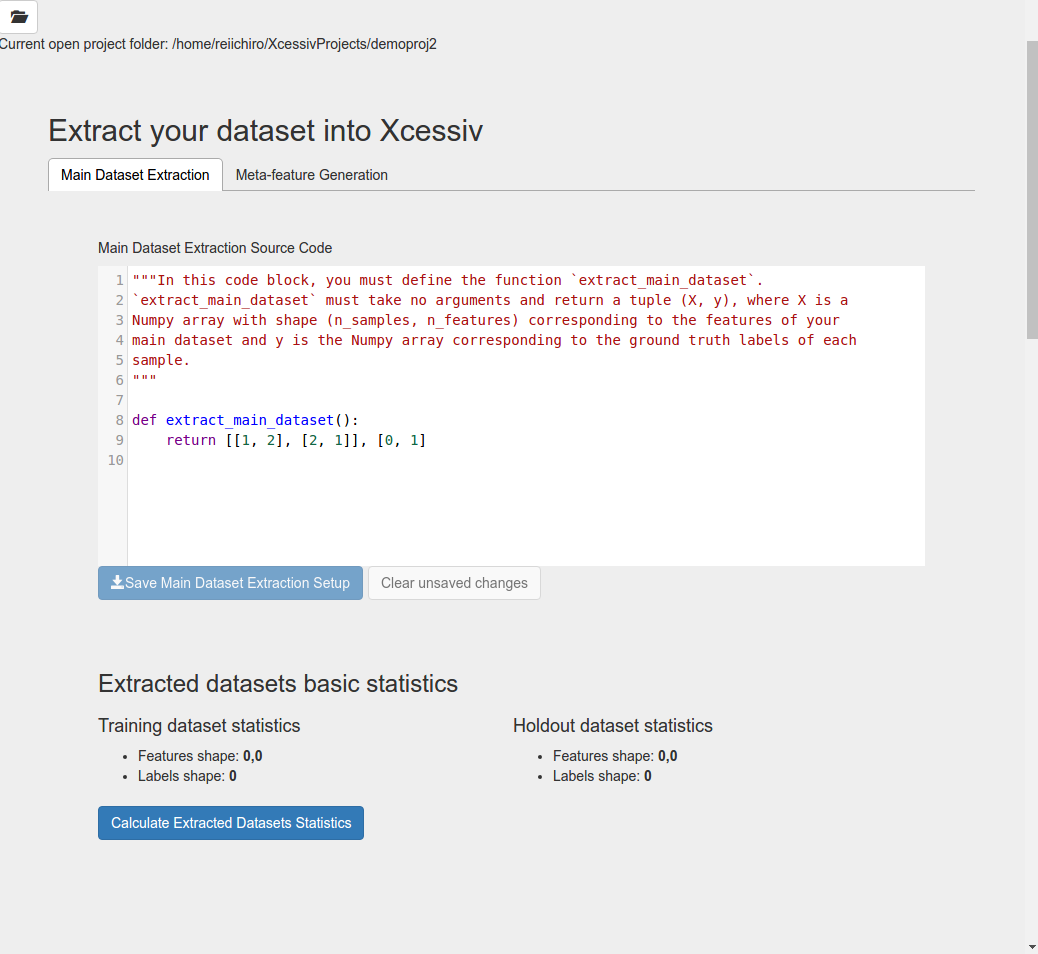
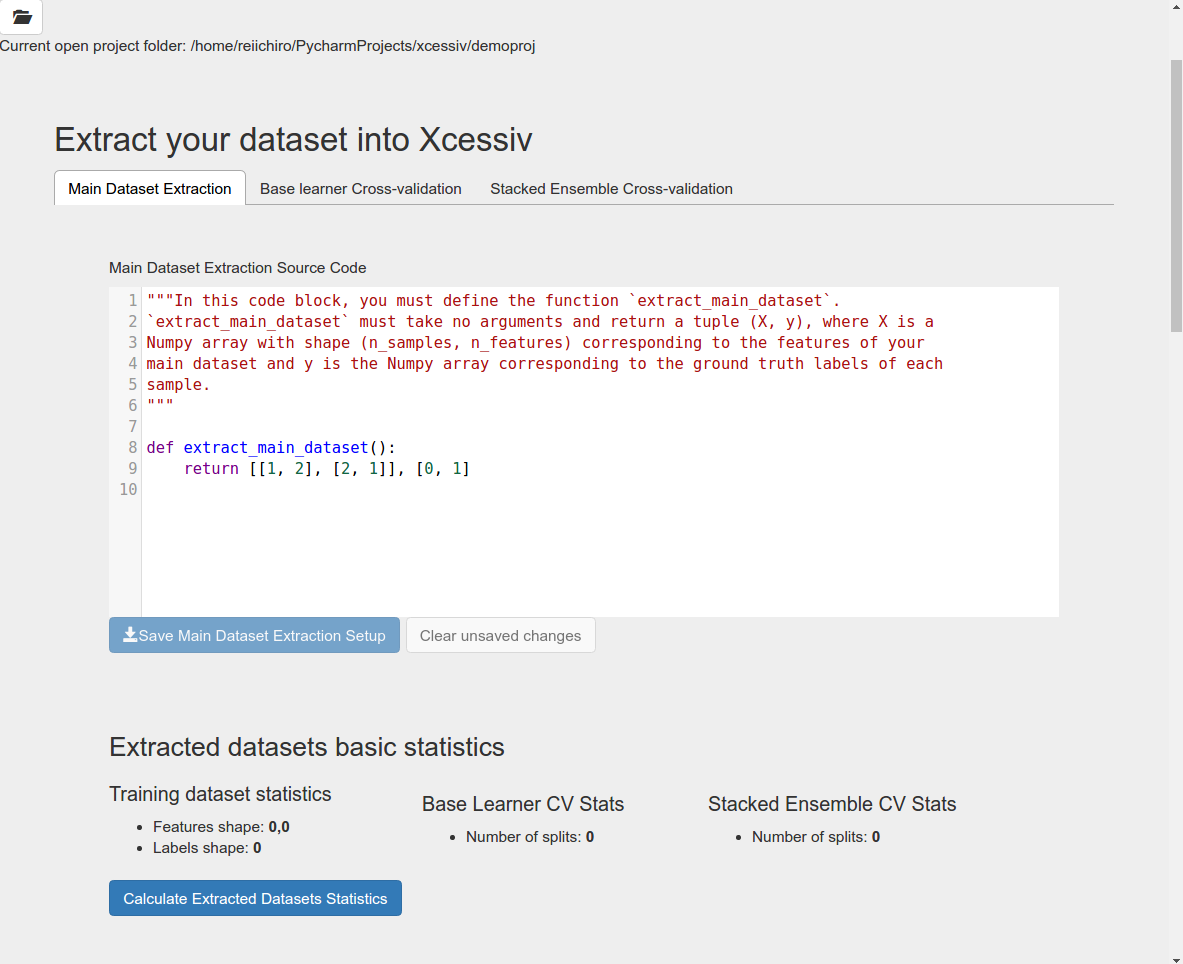
Stacked ensemble cv (#13)
* change server to add ability to specify stacked ensemble cross-validation method

* add UI for modifying stacked ensemble cross-validation and displaying stacked ensemble CV stats

* add docs for stacked ensemble CV

diff --git a/xcessiv/ui/src/DatasetExtraction/DataExtractionTabs.js b/xcessiv/ui/src/DatasetExtraction/DataExtractionTabs.js
@@ -4,6 +4,7 @@ import { Tab, Tabs, TabList, TabPanel } from 'react-tabs';
 import MainDataExtraction from './MainDataExtraction';
 //import TestDataExtraction from './TestDataExtraction';
 import MetaFeatureExtraction from './MetaFeatureExtraction';
+import StackedEnsembleCV from './StackedEnsembleCV'
 import DataVerificationResult from './DataVerificationResult';
 
 class DataExtractionTabs extends Component {
@@ -14,14 +15,17 @@ class DataExtractionTabs extends Component {
       "sameMde": true,
       "sameTde": true,
       "sameMfe": true,
+      "sameSecv": true,
       "mfeConfig": "",
-      "mdeConfig": ""
+      "mdeConfig": "",
+      "secvConfig": ""
     };
   }
 
   componentDidMount() {
     this.fetchMfe(this.props.path);
     this.fetchMde(this.props.path);
+    this.fetchSecv(this.props.path);
   }
 
   fetchMfe(path) {
@@ -59,7 +63,7 @@ class DataExtractionTabs extends Component {
       });
       this.props.addNotification({
         title: 'Success',
-        message: 'Saved meta-feature extraction method',
+        message: 'Saved base learner cross-validation method',
         level: 'success'
       });
     });
@@ -106,6 +110,47 @@ class DataExtractionTabs extends Component {
     });
   }
 
+  fetchSecv(path) {
+    fetch('/ensemble/extraction/stacked-ensemble-cv/?path=' + path)
+    .then(response => response.json())
+    .then(json => {
+      console.log(json);
+      this.setState({
+        secvConfig: json,
+        sameSecv: true
+      })
+    });
+  }
+
+  // Save all changes to server
+  saveSecv(config) {
+    var payload = config;
+
+    fetch(
+      '/ensemble/extraction/stacked-ensemble-cv/?path=' + this.props.path,
+      {
+        method: "PATCH",
+        body: JSON.stringify( payload ),
+        headers: new Headers({
+          'Content-Type': 'application/json'
+        })
+      }
+    )
+    .then(response => response.json())
+    .then(json => {
+      console.log(json);
+      this.setState({
+        secvConfig: json,
+        sameSecv: true
+      });
+      this.props.addNotification({
+        title: 'Success',
+        message: 'Saved stacked ensemble cross-validation method',
+        level: 'success'
+      });
+    });
+  }
+
   componentWillReceiveProps(nextProps) {
     if (this.props.path !== nextProps.path) {
       this.setState({
@@ -128,7 +173,8 @@ class DataExtractionTabs extends Component {
           <TabList>
             <Tab>Main Dataset Extraction{!this.state.sameMde && '*'}</Tab>
             {/*<Tab>Test Dataset Extraction{!this.state.sameTde && '*'}</Tab>*/}
-            <Tab>Meta-feature Generation{!this.state.sameMfe && '*'}</Tab>
+            <Tab>Base learner Cross-validation{!this.state.sameMfe && '*'}</Tab>
+            <Tab>Stacked Ensemble Cross-validation{!this.state.sameSecv && '*'}</Tab>
           </TabList>
           <TabPanel className='TabPanel'>
             <MainDataExtraction 
@@ -156,6 +202,16 @@ class DataExtractionTabs extends Component {
               setSame={(x) => this.setState({sameMfe: x})}
               config={this.state.mfeConfig}
               saveConfig={(x) => this.saveMfe(x)}
+              presetCVs={this.props.presetCVs}
+            />
+          </TabPanel>
+          <TabPanel className='TabPanel'>
+            <StackedEnsembleCV 
+              addNotification={(notif) => this.props.addNotification(notif)}
+              same={this.state.sameSecv}
+              setSame={(x) => this.setState({sameSecv: x})}
+              config={this.state.secvConfig}
+              saveConfig={(x) => this.saveSecv(x)}
               presetCVs={this.props.presetCVs}
             />
           </TabPanel>

diff --git a/xcessiv/ui/src/DatasetExtraction/DataVerificationResult.js b/xcessiv/ui/src/DatasetExtraction/DataVerificationResult.js
@@ -40,7 +40,7 @@ function CrossValidationStatistics(props) {
   }
   return (
     <div>
-      <h4>Cross-validation statistics</h4>
+      <h4>{props.title + ' CV Stats'}</h4>
       <ul>
         <li>Number of splits: <b>{String(stats.number_of_splits)}</b></li>
       </ul>
@@ -58,8 +58,10 @@ function ErrorAlert(props) {
 
 const defaultVerification = {
   'holdout_data_stats': {
-    'features_shape': [0, 0],
-    'labels_shape': [0]
+    'number_of_splits': 0
+  },
+  'stacked_ensemble_cv_stats': {
+    'number_of_splits': 0
   },
   'test_data_stats': {
     'features_shape': [0, 0],
@@ -166,7 +168,14 @@ class DataVerificationResult extends Component {
           </td>
           */}
           <td>
-            <CrossValidationStatistics stats={this.state.verification.holdout_data_stats}/>
+            <CrossValidationStatistics 
+              stats={this.state.verification.holdout_data_stats}
+              title='Base Learner'/>
+          </td>
+          <td>
+            <CrossValidationStatistics 
+              stats={this.state.verification.stacked_ensemble_cv_stats}
+              title='Stacked Ensemble'/>
           </td>
           </tr>
         </tbody>

diff --git a/xcessiv/ui/src/DatasetExtraction/StackedEnsembleCV.js b/xcessiv/ui/src/DatasetExtraction/StackedEnsembleCV.js
@@ -7,7 +7,7 @@ import { isEqual } from 'lodash';
 import { ClearModal, PresetCVSettingsModal } from './Modals';
 import { Button, ButtonToolbar, Glyphicon } from 'react-bootstrap';
 
-class MetaFeatureExtraction extends Component {
+class StackedEnsembleCV extends Component {
   constructor(props) {
     super(props);
     this.state = {
@@ -61,7 +61,7 @@ class MetaFeatureExtraction extends Component {
           }}
         > 
           <Glyphicon glyph="save" />
-          Save Base Learner Cross-validation Setup 
+          Save Stacked Ensemble Cross-validation Setup 
         </Button>
         <Button 
           disabled={this.props.same} 
@@ -89,4 +89,4 @@ class MetaFeatureExtraction extends Component {
   }
 }
 
-export default MetaFeatureExtraction;
+export default StackedEnsembleCV;

diff --git a/xcessiv/rqtasks.py b/xcessiv/rqtasks.py
@@ -9,7 +9,6 @@ import os
 import sys
 import traceback
 from sklearn.model_selection import train_test_split
-from sklearn.model_selection import StratifiedKFold
 
 
 def extraction_data_statistics(path):
@@ -46,16 +45,35 @@ def extraction_data_statistics(path):
         else:
             X_test, y_test = None, None
 
+        # test base learner cross-validation
         extraction_code = extraction.meta_feature_generation['source']
         return_splits_iterable = functions.import_object_from_string_code(
             extraction_code,
             'return_splits_iterable'
         )
-
         number_of_splits = 0
+        test_indices = []
         try:
             for train_idx, test_idx in return_splits_iterable(X, y):
                 number_of_splits += 1
+                test_indices.append(test_idx)
+        except Exception as e:
+            raise exceptions.UserError('User code exception', exception_message=str(e))
+
+        # preparation before testing stacked ensemble cross-validation
+        test_indices = np.concatenate(test_indices)
+        X, y = X[test_indices], y[test_indices]
+
+        # test stacked ensemble cross-validation
+        extraction_code = extraction.stacked_ensemble_cv['source']
+        return_splits_iterable = functions.import_object_from_string_code(
+            extraction_code,
+            'return_splits_iterable'
+        )
+        number_of_splits_stacked_cv = 0
+        try:
+            for train_idx, test_idx in return_splits_iterable(X, y):
+                number_of_splits_stacked_cv += 1
         except Exception as e:
             raise exceptions.UserError('User code exception', exception_message=str(e))
 
@@ -66,6 +84,7 @@ def extraction_data_statistics(path):
         else:
             data_stats['test_data_stats'] = None
         data_stats['holdout_data_stats'] = {'number_of_splits': number_of_splits}
+        data_stats['stacked_ensemble_cv_stats'] = {'number_of_splits': number_of_splits_stacked_cv}
 
         extraction.data_statistics = data_stats
 
@@ -199,14 +218,13 @@ def evaluate_stacked_ensemble(path, ensemble_id):
 
             est = stacked_ensemble.return_secondary_learner()
 
-            cv = StratifiedKFold(
-                n_splits=5,
-                shuffle=True,
-                random_state=8
+            return_splits_iterable_stacked_ensemble = functions.import_object_from_string_code(
+                extraction.stacked_ensemble_cv['source'],
+                'return_splits_iterable'
             )
             preds = []
             trues_list = []
-            for train_index, test_index in cv.split(secondary_features, y):
+            for train_index, test_index in return_splits_iterable_stacked_ensemble(secondary_features, y):
                 X_train, X_test = secondary_features[train_index], secondary_features[test_index]
                 y_train, y_test = y[train_index], y[test_index]
                 est = est.fit(X_train, y_train)

diff --git a/xcessiv/views.py b/xcessiv/views.py
@@ -132,44 +132,24 @@ def extraction_meta_feature_generation():
             return jsonify(extraction.meta_feature_generation)
 
 
-@app.route('/ensemble/extraction/train-dataset/verify/', methods=['GET'])
-def verify_extraction_train_dataset():
+@app.route('/ensemble/extraction/stacked-ensemble-cv/', methods=['GET', 'PATCH'])
+def extraction_stacked_ensemble_cv():
     path = functions.get_path_from_query_string(request)
 
-    with functions.DBContextManager(path) as session:
-        extraction = session.query(models.Extraction).first()
+    if request.method == 'GET':
+        with functions.DBContextManager(path) as session:
+            extraction = session.query(models.Extraction).first()
+            return jsonify(extraction.stacked_ensemble_cv)
 
-    X, y = extraction.return_train_dataset()
-
-    return jsonify(functions.verify_dataset(X, y))
-
-
-@app.route('/ensemble/extraction/test-dataset/verify/', methods=['GET'])
-def verify_extraction_test_dataset():
-    path = functions.get_path_from_query_string(request)
-
-    with functions.DBContextManager(path) as session:
-        extraction = session.query(models.Extraction).first()
-
-    X, y = extraction.return_test_dataset()
-
-    return jsonify(functions.verify_dataset(X, y))
-
-
-@app.route('/ensemble/extraction/meta-feature-generation/verify/', methods=['GET'])
-def verify_extraction_meta_feature_generation():
-    path = functions.get_path_from_query_string(request)
-
-    with functions.DBContextManager(path) as session:
-        extraction = session.query(models.Extraction).first()
-
-    if extraction.meta_feature_generation['method'] == 'cv':
-        raise exceptions.UserError('Xcessiv will use cross-validation to'
-                                   ' generate meta-features')
-
-    X_holdout, y_holdout = extraction.return_holdout_dataset()
-
-    return jsonify(functions.verify_dataset(X_holdout, y_holdout))
+    if request.method == 'PATCH':
+        req_body = request.get_json()
+        with functions.DBContextManager(path) as session:
+            extraction = session.query(models.Extraction).first()
+            for key, value in six.iteritems(req_body):
+                extraction.stacked_ensemble_cv[key] = value
+            session.add(extraction)
+            session.commit()
+            return jsonify(extraction.stacked_ensemble_cv)
 
 
 @app.route('/ensemble/extraction/verification/', methods=['GET', 'POST'])

diff --git a/xcessiv/models.py b/xcessiv/models.py
@@ -33,7 +33,8 @@ mutable.MutableDict.associate_with(JsonEncodedDict)
 
 class Extraction(Base):
     """This table's columns are text columns representing JSON data of how
-    to extract the train and test datasets, and the meta-feature generation method.
+    to extract the train and test datasets, base learner cross-validation method,
+    and the stacked ensemble cross-validation method.
     It will contain only a single row.
     """
     __tablename__ = 'extraction'
@@ -42,12 +43,14 @@ class Extraction(Base):
     main_dataset = Column(JsonEncodedDict)
     test_dataset = Column(JsonEncodedDict)
     meta_feature_generation = Column(JsonEncodedDict)
+    stacked_ensemble_cv = Column(JsonEncodedDict)
     data_statistics = Column(JsonEncodedDict)
 
     def __init__(self):
         self.main_dataset = constants.DEFAULT_EXTRACTION_MAIN_DATASET
         self.test_dataset = constants.DEFAULT_EXTRACTION_TEST_DATASET
         self.meta_feature_generation = constants.DEFAULT_EXTRACTION_META_FEATURE_GENERATION
+        self.stacked_ensemble_cv = constants.DEFAULT_EXTRACTION_META_FEATURE_GENERATION
         self.data_statistics = None
 
     def return_main_dataset(self):

diff --git a/docs/walkthrough.rst b/docs/walkthrough.rst
@@ -121,9 +121,34 @@ The given code does stratified K-Fold validation with 5 train-test splits and a 
 
 So far, we have given code for defining cross-validation. What if we wanted to do a simple train-test split for generating meta-features (blending)? In that case, it is interesting to note that a single train-test split can be defined by a cross-validation iterator that yields only one pair of indices for a train-test split. You can use either :class:`sklearn.model_selection.ShuffleSplit` or :class:`sklearn.model_selection.StratifiedShuffleSplit` with ``n_splits`` set to 1 for this functionality. Or, roll your own implementation.
 
-If you click again on **Calculate Extracted Datasets Statistics**, you will notice that the holdout dataset statistics will show you the number of splits generated.
+If you click again on **Calculate Extracted Datasets Statistics**, you will notice that the base learner cross-validation statistics will show you the number of splits generated.
 
 Since most problems will rely on very common cross-validation methods, Xcessiv provides several preset :func:`return_splits_iterable` implementations based on existing **scikit-learn**  cross-validation iterators.
+
+Define the stacked ensemble cross-validation method
+~~~~~~~~~~~~~~~~~~~~~~~~~~~~~~~~~~~~~~~~~~~~~~~~~~~
+
+Since the secondary learner of a stacked ensemble is trained on a different set of features (the meta-features), it is natural to define a separate cross-validation method for it. Under the **Stacked Ensemble Cross-validation** tab, we see a field extremely similar to the one we found in the previous step.
+
+In fact, to define your cross-validation method for the secondary learner, you also need to define a function :func:`return_splits_iterable` with the exact same function signature as before. Keep in mind though, that the ``X`` and ``y`` arrays passed to this function will be from the meta-features.
+
+In most use cases and for valid comparison with the base learner metrics, you can just use the exact same cross-validation method you used for the base learners.
+
+Go ahead and copy the exact same code we used previously into this code block.::
+
+   from sklearn.model_selection import StratifiedKFold
+
+   def return_splits_iterable(X, y):
+       """This function returns an iterable that splits the given dataset
+       K times into different stratified train-test splits.
+       """
+       RANDOM_STATE = 8
+       N_SPLITS = 5
+       SHUFFLE = True
+
+       return StratifiedKFold(n_splits=N_SPLITS, random_state=RANDOM_STATE, shuffle=SHUFFLE).split(X, y)
+
+Click on **Calculate Extracted Dataset Statistics** and you should see that the stacked ensemble cross-validation statistics shows the number of splits at 5.
 
 Defining your base learners and metrics
 ---------------------------------------
@@ -390,7 +415,7 @@ Here's a complete list of what happens when Xcessiv creates a new ensemble. Note
 2) An available RQ worker reads the job and starts processing.
 3) The worker loads the secondary learner class and selected base learners' saved meta-features from the project folder, and sets the secondary learner with the desired hyperparameters using ``set_params``.
 4) The worker concatenates the meta-features, and if selected, the original features, together to create the new feature set.
-5) Using 5-fold stratified cross-validation, the secondary base learner's metrics on the new feature set are calculated.
+5) Using the cross-validation method you set for Stacked Ensemble Cross-validation, the secondary base learner's metrics on the new feature set are calculated.
 6) The worker updates the database directly with the newly calculated metrics.
 7) The browser polls the Xcessiv server from time to time to see if the job has finished and updates the user interface accordingly.
 
